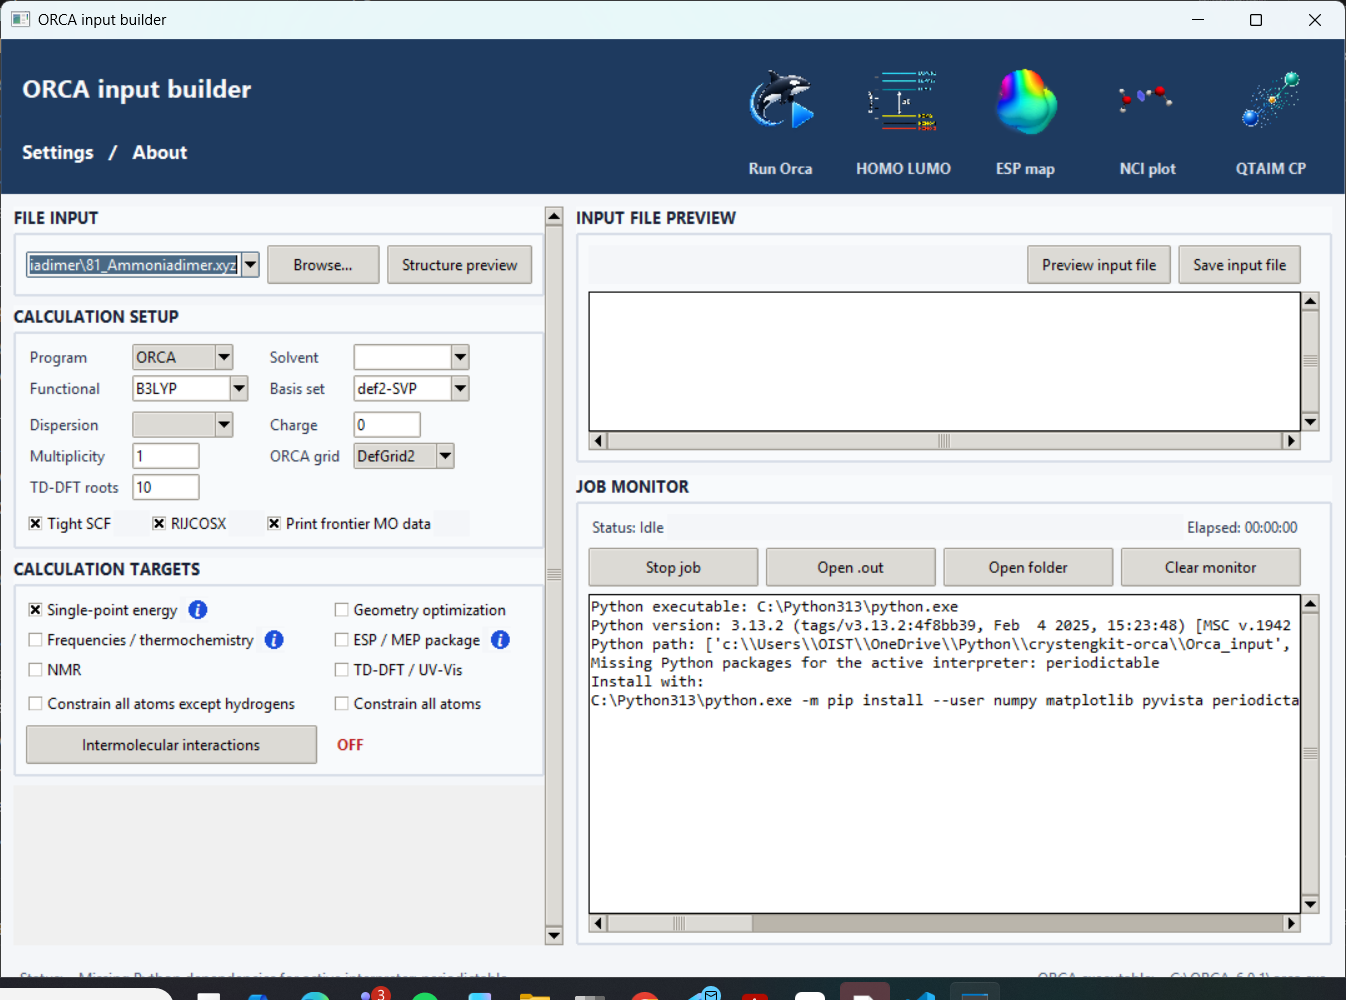
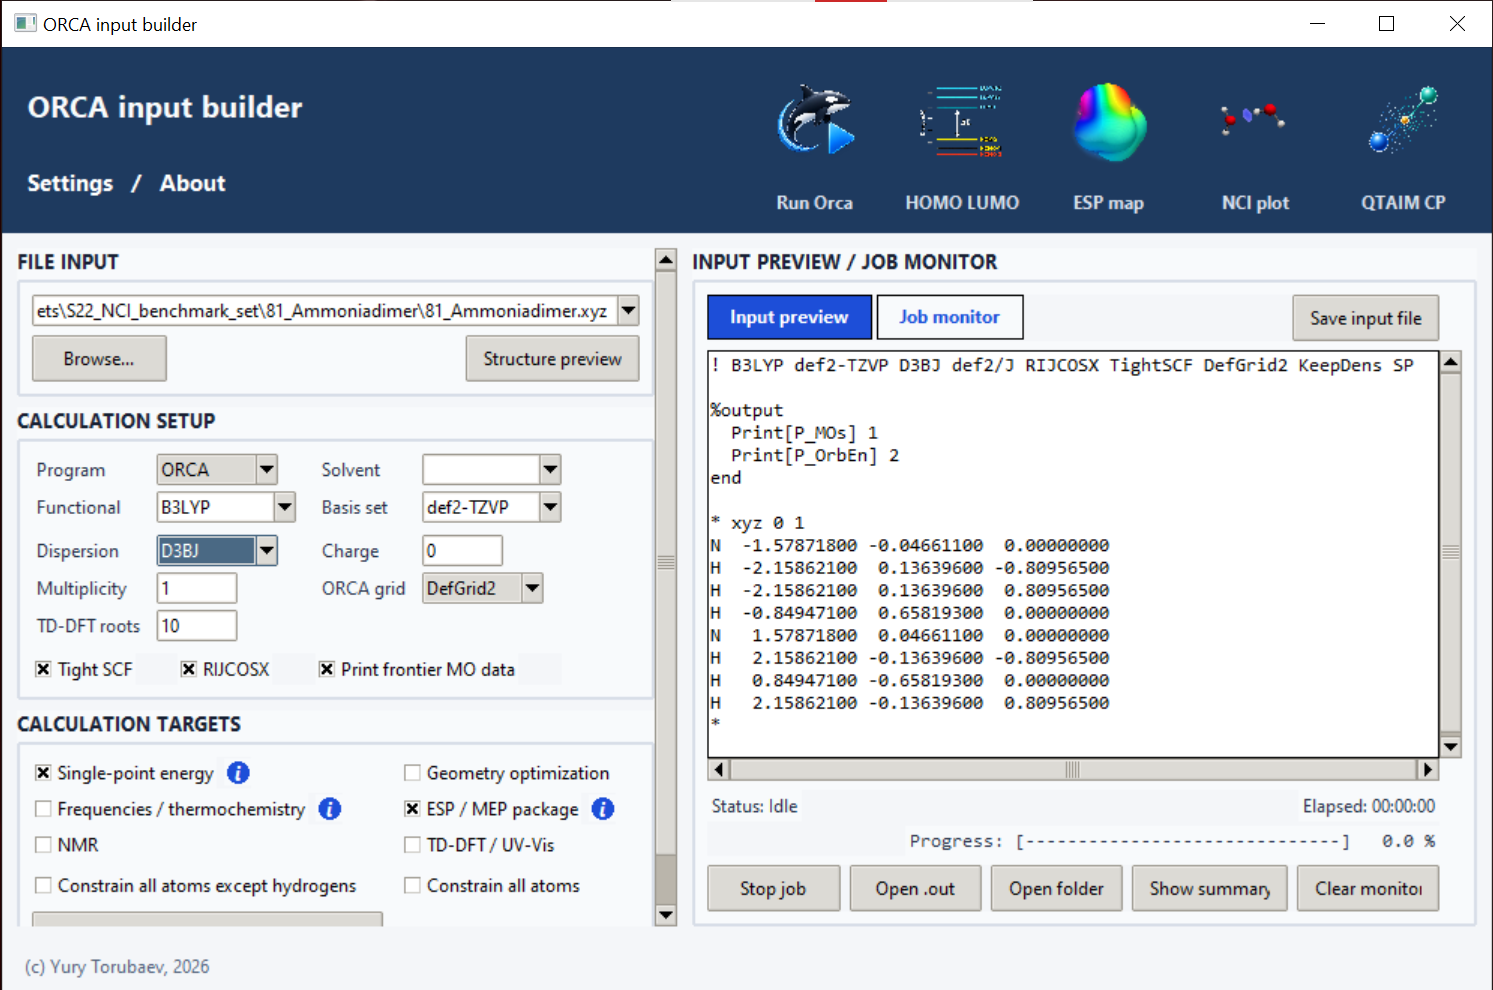
Update ORCA builder docs and preview window
Document the shared Input preview / Job monitor panel, regenerate the wiki HTML, include updated README imagery, and make the PyVista structure preview compact with a black background.

diff --git a/docs/wiki.html b/docs/wiki.html
@@ -276,13 +276,14 @@
 <p><em>ESP maps, NCI plots, BCP/bonding paths, and HOMO-LUMO shapes are not only illustrations of your work but also good ideas for journal cover art</em>.</p>
 <h2 id="overview">Overview</h2>
 <p>CrystEngKit is a practical GUI suite for basic quantum-chemical computations and visualization in supramolecular chemistry and crystal engineering. It helps experimental researchers prepare ORCA/Gaussian input files, run ORCA calculations, monitor results, and turn finished calculations into figures and summary text.</p>
-<p>Typical input formats are <code>.xyz</code>, existing ORCA <code>.inp</code> files, and <code>.cif</code> files from single-crystal X-ray diffraction, publications or Cambridge Structural Database (CSD)<sup><a href="#ref-csd">csd</a></sup>.</p>
+<p>Typical input formats are <code>.xyz</code>, existing ORCA <code>.inp</code> files, and <code>.cif</code> files from single-crystal X-ray diffraction, publications or Cambridge Structural Database (CSD)<sup><a href="#ref-csd">csd</a></sup>. The ORCA Input Builder also accepts <code>.mol</code>, <code>.sdf</code>, <code>.sd</code>, <code>.cml</code>, <code>.cdxml</code>, <code>.cdx</code>, <code>.ct</code>, and Gaussian <code>.gjf</code>, <code>.com</code>, <code>.gau</code>, <code>.gjc</code> files. Generic <code>.inp</code> files are treated as ORCA inputs, not Gaussian inputs.</p>
 <p>The suite is built around widely used, freely available academic/freeware programs. ORCA<sup><a href="#ref-orca-site">orca-site</a></sup> is used for quantum-chemical calculations, and Multiwfn<sup><a href="#ref-multiwfn-site">multiwfn-site</a></sup> is used for wavefunction analysis, ESP/NCI cube generation, and QTAIM critical-point analysis. CrystEngKit does not replace these programs; it provides a practical shell that helps experimental chemists make the first steps into quantum-chemical calculations and convert results into publication-ready images, tables, and text.</p>
+<figure><img src="../crystengkit_v1.0_1.png" alt="alt text"></figure>
 <p>CrystEngKit is intended to run on Windows, Linux, and macOS with Python 3.9 or newer. The Orca Input Builder checks for installed Python interpreters on startup and uses the newest suitable Python it finds for companion tools such as ESP, NCI, and QTAIM viewers. ORCA, Multiwfn, and optional external tools must still be installed in versions suitable for your operating system.</p>
 <figure><img src="../images/wiki/orca-input_1.png" alt=""></figure>
 <p>The main GUI is the <strong>ORCA Input Builder</strong><sup><a href="#ref-orca">orca</a></sup>. It can:</p>
 <ul>
-<li>read molecular structures from <code>.cif</code>, <code>.xyz</code>, and ORCA <code>.inp</code> files</li>
+<li>read molecular structures from <code>.cif</code>, <code>.xyz</code>, ORCA <code>.inp</code>, MDL/SDF/CML/ChemDraw files through Open Babel, and Gaussian input files</li>
 <li>prepare ORCA and Gaussian<sup><a href="#ref-gaussian">gaussian</a></sup> input files</li>
 <li>run ORCA and show live output</li>
 <li>generate manuscript-ready computation summaries for experimental sections and supporting information</li>
@@ -308,11 +309,14 @@
 <li><strong>ORCA</strong>, available free of charge for academic users through the official ORCA/FACCTs pages<sup><a href="#ref-orca-site">orca-site</a></sup></li>
 <li><strong>orca_2aim</strong>, for generating <code>.wfn</code> / <code>.wfx</code> files after ORCA runs</li>
 <li><strong>Multiwfn</strong>, for ESP, NCI, and QTAIM analysis<sup><a href="#ref-multiwfn-site">multiwfn-site</a></sup></li>
+<li><strong>Open Babel</strong> <code>obabel</code> / <code>obabel.exe</code>, optional but required for importing <code>.mol</code>, <code>.sdf</code>, <code>.sd</code>, <code>.cml</code>, <code>.cdxml</code>, <code>.cdx</code>, <code>.ct</code>, and Gaussian Z-matrix files</li>
 </ul>
 <p>The installer does not install ORCA or Multiwfn automatically, because these programs have their own licenses and official download routes. If you prefer manual Python setup, install the main Python packages with:</p>
 <div class="code-block"><button class="copy-code" type="button" aria-label="Copy code" title="Copy code">Copy</button><pre><code>pip install numpy pyvista matplotlib periodictable gemmi Pillow</code></pre></div>
 <p>The same package list is available in <code>requirements.txt</code>.</p>
 <p><code>numpy</code> and <code>pyvista</code> are needed for structure preview and 3D plotting. <code>matplotlib</code> is used by the HOMO-LUMO energy diagram tool. <code>periodictable</code> supports the 3D NCI molecular viewer. <code>gemmi</code> is recommended for CIF handling. <code>Pillow</code> is used by the HOMO-LUMO MO surface tools for saved images, thumbnails, and contact sheets.</p>
+<p>Open Babel is discovered from the saved Builder setting, common installation locations, and system <code>PATH</code>; if it is still missing, the Builder asks you to browse to <code>obabel.exe</code> on Windows or <code>obabel</code> on Linux/macOS and validates the executable before saving it. MOL/SDF/CML/ChemDraw/CT files are converted to Cartesian XYZ in a temporary folder, leaving the source file unchanged. Existing 3D coordinates are preserved. If a structure appears to contain only 2D coordinates, the Builder asks before using Open Babel to add hydrogens and generate an initial 3D geometry. Multi-record SDF files show a record selector and import only the selected record.</p>
+<p>Gaussian import reads Link 0 lines, the route, title, charge/multiplicity, and explicit molecular specification. Ordinary Cartesian coordinates are imported directly, including atomic-number labels, common atom labels, freeze-code syntax, scientific notation, and bohr/atomic-unit coordinates converted to angstrom. Gaussian Z-matrices are converted through Open Babel. <code>Geom=Check</code>/<code>Geom=AllCheck</code> inputs without explicit coordinates are rejected. Gaussian route keywords, connectivity, ModRedundant data, basis/ECP sections, ONIOM layers, fragment assignments, and other Gaussian-specific directives are not translated into ORCA settings; inspect the imported geometry and calculation settings before running.</p>
 <h2 id="starting-the-suite">Starting the Suite</h2>
 <p>Launch the main ORCA Builder with:</p>
 <div class="code-block"><button class="copy-code" type="button" aria-label="Copy code" title="Copy code">Copy</button><pre><code>python tools/Orca_input/orca_input.py</code></pre></div>
@@ -321,7 +325,7 @@
 <p>The analysis tools can be opened from the top panel of the Builder after a calculation, or launched directly.</p>
 <h3 id="orca-input-builder">ORCA Input Builder</h3>
 <figure><img src="../images/wiki/orca-input_1.png" alt=""></figure>
-<p>The main working window. Use it to prepare ORCA input files from <code>.cif</code>, <code>.xyz</code>, or existing <code>.inp</code> files, run ORCA, monitor the output, generate computation summaries, and prepare dimer intermolecular-interaction jobs.</p>
+<p>The main working window. Use it to prepare ORCA input files from <code>.cif</code>, <code>.xyz</code>, or existing <code>.inp</code> files, run ORCA, monitor the output, generate computation summaries, and prepare dimer intermolecular-interaction jobs. The right panel uses one large shared text window with an <code>Input preview</code> / <code>Job monitor</code> switch: <code>Input preview</code> generates or refreshes the current input file text, while <code>Job monitor</code> shows live ORCA output, progress, elapsed time, and summary/monitor controls.</p>
 <h3 id="homo-lumo-plotter">HOMO-LUMO Plotter</h3>
 <figure><img src="../images/wiki/orca_homo-lumo_2.png" alt=""></figure>
 <p>Creates frontier-orbital energy diagrams<sup><a href="#ref-frontier-orbitals">frontier-orbitals</a></sup> from ORCA/Gaussian output or pasted orbital energies. For finished ORCA jobs, it can also generate MO cube files with <code>orca_plot</code>, render HOMO/LUMO surface images, and collect saved orbital views into a table.</p>
@@ -344,11 +348,11 @@
 <h2 id="how-to-use-the-tools">How to Use the Tools</h2>
 <h3 id="build-and-run-an-orca-job">Build and Run an ORCA Job</h3>
 <ol>
-<li>Load a <code>.cif</code>, <code>.xyz</code>, or ORCA <code>.inp</code> file in the Builder.</li>
+<li>Load a supported structure file in the Builder. Native <code>.xyz</code>, <code>.cif</code>, and ORCA <code>.inp</code> files are read directly. <code>.mol</code>, <code>.sdf</code>, <code>.sd</code>, <code>.cml</code>, <code>.cdxml</code>, <code>.cdx</code>, <code>.ct</code>, and Gaussian Z-matrix inputs require Open Babel. Gaussian <code>.gjf</code>, <code>.com</code>, <code>.gau</code>, and <code>.gjc</code> files with ordinary Cartesian coordinates are read directly.</li>
 </ol>
 <figure><img src="../images/wiki/orca-input_1.png" alt=""></figure>
 <ol start="2">
-<li>Check the geometry with <code>Structure preview</code> if needed.</li>
+<li>Check the geometry with <code>Structure preview</code> if needed. The preview opens in a compact PyVista window with a black background. Open Babel conversions and any generated 3D structures should be inspected before calculation; a generated 3D structure is only a starting geometry, not an optimized or experimental structure.</li>
 </ol>
 <figure><img src="../images/wiki/orca-input_viewer_1.png" alt=""></figure>
 <ol start="3">
@@ -358,10 +362,10 @@
 <li>Choose the target calculation, such as single-point energy, optimization, frequencies, ESP package, TD-DFT, NMR, or dimer interaction energy.</li>
 </ol>
 <ol start="5">
-<li>Preview and save the <code>.inp</code> file.</li>
+<li>Use <code>Input preview</code> in the shared right panel to generate or refresh the current <code>.inp</code> text, then use <code>Save input file</code>.</li>
 </ol>
 <ol start="6">
-<li>Click <code>Run Orca</code> and follow the job in <code>JOB MONITOR</code>.</li>
+<li>Click <code>Run Orca</code>. The shared right panel switches automatically to <code>Job monitor</code>, where live output, status, progress, elapsed time, output-folder buttons, summary display, and monitor clearing are available.</li>
 </ol>
 <h3 id="make-figures-after-a-calculation">Make Figures After a Calculation</h3>
 <p>Use the top-panel buttons after the ORCA job finishes:</p>

diff --git a/tools/Orca_input/orca_input.py b/tools/Orca_input/orca_input.py
@@ -3639,6 +3639,14 @@ class App(tk.Tk):
         except Exception:
             return width, fallback_height
 
+    def _structure_preview_window_size(self) -> Tuple[int, int]:
+        try:
+            width = max(360, int(self.winfo_screenwidth() / 3))
+            height = max(1, int(self.winfo_screenheight() * 0.80))
+            return width, height
+        except Exception:
+            return 430, 800
+
     def open_launcher_settings(self):
         self._auto_locate_launcher_defaults()
 
@@ -4298,8 +4306,8 @@ class App(tk.Tk):
             bonds = infer_bonds(structure, scale=1.20)
             points = np.array([[x, y, z] for _, x, y, z in structure.atoms], dtype=float)
             extent = float(np.linalg.norm(points.max(axis=0) - points.min(axis=0))) if len(points) else 1.0
-            plotter = pv_module.Plotter(window_size=self._screen_fraction_window_size(1200), lighting="none")
-            configure_pyvista_defaults(pv_module, plotter, extent=extent)
+            plotter = pv_module.Plotter(window_size=self._structure_preview_window_size(), lighting="none")
+            configure_pyvista_defaults(pv_module, plotter, background="black", extent=extent)
             for i, j in bonds:
                 sym_i = structure.atoms[i][0]
                 sym_j = structure.atoms[j][0]

diff --git a/README.md b/README.md
@@ -21,17 +21,16 @@
 
 CrystEngKit is a practical GUI suite for basic quantum-chemical computations and visualization in supramolecular chemistry and crystal engineering. It helps experimental researchers prepare ORCA/Gaussian input files, run ORCA calculations, monitor results, and turn finished calculations into figures and summary text.
 
-Typical input formats are `.xyz`, existing ORCA `.inp` files, and `.cif` files from single-crystal X-ray diffraction, publications or Cambridge Structural Database (CSD)[^csd].
+Typical input formats are `.xyz`, existing ORCA `.inp` files, and `.cif` files from single-crystal X-ray diffraction, publications or Cambridge Structural Database (CSD)[^csd]. The ORCA Input Builder also accepts `.mol`, `.sdf`, `.sd`, `.cml`, `.cdxml`, `.cdx`, `.ct`, and Gaussian `.gjf`, `.com`, `.gau`, `.gjc` files. Generic `.inp` files are treated as ORCA inputs, not Gaussian inputs.
 
 The suite is built around widely used, freely available academic/freeware programs. ORCA[^orca-site] is used for quantum-chemical calculations, and Multiwfn[^multiwfn-site] is used for wavefunction analysis, ESP/NCI cube generation, and QTAIM critical-point analysis. CrystEngKit does not replace these programs; it provides a practical shell that helps experimental chemists make the first steps into quantum-chemical calculations and convert results into publication-ready images, tables, and text.
-
+![alt text](crystengkit_v1.0_1.png)
 CrystEngKit is intended to run on Windows, Linux, and macOS with Python 3.9 or newer. The Orca Input Builder checks for installed Python interpreters on startup and uses the newest suitable Python it finds for companion tools such as ESP, NCI, and QTAIM viewers. ORCA, Multiwfn, and optional external tools must still be installed in versions suitable for your operating system.
-
 ![](images/wiki/orca-input_1.png)
 
 The main GUI is the **ORCA Input Builder**[^orca]. It can:
 
-- read molecular structures from `.cif`, `.xyz`, and ORCA `.inp` files
+- read molecular structures from `.cif`, `.xyz`, ORCA `.inp`, MDL/SDF/CML/ChemDraw files through Open Babel, and Gaussian input files
 - prepare ORCA and Gaussian[^gaussian] input files
 - run ORCA and show live output
 - generate manuscript-ready computation summaries for experimental sections and supporting information
@@ -76,6 +75,7 @@ The full suite uses:
 - **ORCA**, available free of charge for academic users through the official ORCA/FACCTs pages[^orca-site]
 - **orca_2aim**, for generating `.wfn` / `.wfx` files after ORCA runs
 - **Multiwfn**, for ESP, NCI, and QTAIM analysis[^multiwfn-site]
+- **Open Babel** `obabel` / `obabel.exe`, optional but required for importing `.mol`, `.sdf`, `.sd`, `.cml`, `.cdxml`, `.cdx`, `.ct`, and Gaussian Z-matrix files
 
 The installer does not install ORCA or Multiwfn automatically, because these programs have their own licenses and official download routes. If you prefer manual Python setup, install the main Python packages with:
 
@@ -86,6 +86,10 @@ pip install numpy pyvista matplotlib periodictable gemmi Pillow
 The same package list is available in `requirements.txt`.
 
 `numpy` and `pyvista` are needed for structure preview and 3D plotting. `matplotlib` is used by the HOMO-LUMO energy diagram tool. `periodictable` supports the 3D NCI molecular viewer. `gemmi` is recommended for CIF handling. `Pillow` is used by the HOMO-LUMO MO surface tools for saved images, thumbnails, and contact sheets.
+
+Open Babel is discovered from the saved Builder setting, common installation locations, and system `PATH`; if it is still missing, the Builder asks you to browse to `obabel.exe` on Windows or `obabel` on Linux/macOS and validates the executable before saving it. MOL/SDF/CML/ChemDraw/CT files are converted to Cartesian XYZ in a temporary folder, leaving the source file unchanged. Existing 3D coordinates are preserved. If a structure appears to contain only 2D coordinates, the Builder asks before using Open Babel to add hydrogens and generate an initial 3D geometry. Multi-record SDF files show a record selector and import only the selected record.
+
+Gaussian import reads Link 0 lines, the route, title, charge/multiplicity, and explicit molecular specification. Ordinary Cartesian coordinates are imported directly, including atomic-number labels, common atom labels, freeze-code syntax, scientific notation, and bohr/atomic-unit coordinates converted to angstrom. Gaussian Z-matrices are converted through Open Babel. `Geom=Check`/`Geom=AllCheck` inputs without explicit coordinates are rejected. Gaussian route keywords, connectivity, ModRedundant data, basis/ECP sections, ONIOM layers, fragment assignments, and other Gaussian-specific directives are not translated into ORCA settings; inspect the imported geometry and calculation settings before running.
 
 ## Starting the Suite
 
@@ -103,7 +107,7 @@ The analysis tools can be opened from the top panel of the Builder after a calcu
 
 ### ORCA Input Builder
 
-![](images/wiki/orca-input_1.png)The main working window. Use it to prepare ORCA input files from `.cif`, `.xyz`, or existing `.inp` files, run ORCA, monitor the output, generate computation summaries, and prepare dimer intermolecular-interaction jobs.
+![](images/wiki/orca-input_1.png)The main working window. Use it to prepare ORCA input files from `.cif`, `.xyz`, or existing `.inp` files, run ORCA, monitor the output, generate computation summaries, and prepare dimer intermolecular-interaction jobs. The right panel uses one large shared text window with an `Input preview` / `Job monitor` switch: `Input preview` generates or refreshes the current input file text, while `Job monitor` shows live ORCA output, progress, elapsed time, and summary/monitor controls.
 
 ### HOMO-LUMO Plotter
 
@@ -143,11 +147,11 @@ Combines the molecular structure, NCI surface, QTAIM bond critical points, and b
 
 ### Build and Run an ORCA Job
 
-1. Load a `.cif`, `.xyz`, or ORCA `.inp` file in the Builder.
+1. Load a supported structure file in the Builder. Native `.xyz`, `.cif`, and ORCA `.inp` files are read directly. `.mol`, `.sdf`, `.sd`, `.cml`, `.cdxml`, `.cdx`, `.ct`, and Gaussian Z-matrix inputs require Open Babel. Gaussian `.gjf`, `.com`, `.gau`, and `.gjc` files with ordinary Cartesian coordinates are read directly.
    
    ![](images/wiki/orca-input_1.png)
 
-2. Check the geometry with `Structure preview` if needed.
+2. Check the geometry with `Structure preview` if needed. The preview opens in a compact PyVista window with a black background. Open Babel conversions and any generated 3D structures should be inspected before calculation; a generated 3D structure is only a starting geometry, not an optimized or experimental structure.
    
    ![](images/wiki/orca-input_viewer_1.png)
 
@@ -155,9 +159,9 @@ Combines the molecular structure, NCI surface, QTAIM bond critical points, and b
 
 4. Choose the target calculation, such as single-point energy, optimization, frequencies, ESP package, TD-DFT, NMR, or dimer interaction energy.
 
-5. Preview and save the `.inp` file.
+5. Use `Input preview` in the shared right panel to generate or refresh the current `.inp` text, then use `Save input file`.
 
-6. Click `Run Orca` and follow the job in `JOB MONITOR`.
+6. Click `Run Orca`. The shared right panel switches automatically to `Job monitor`, where live output, status, progress, elapsed time, output-folder buttons, summary display, and monitor clearing are available.
 
 ### Make Figures After a Calculation
 